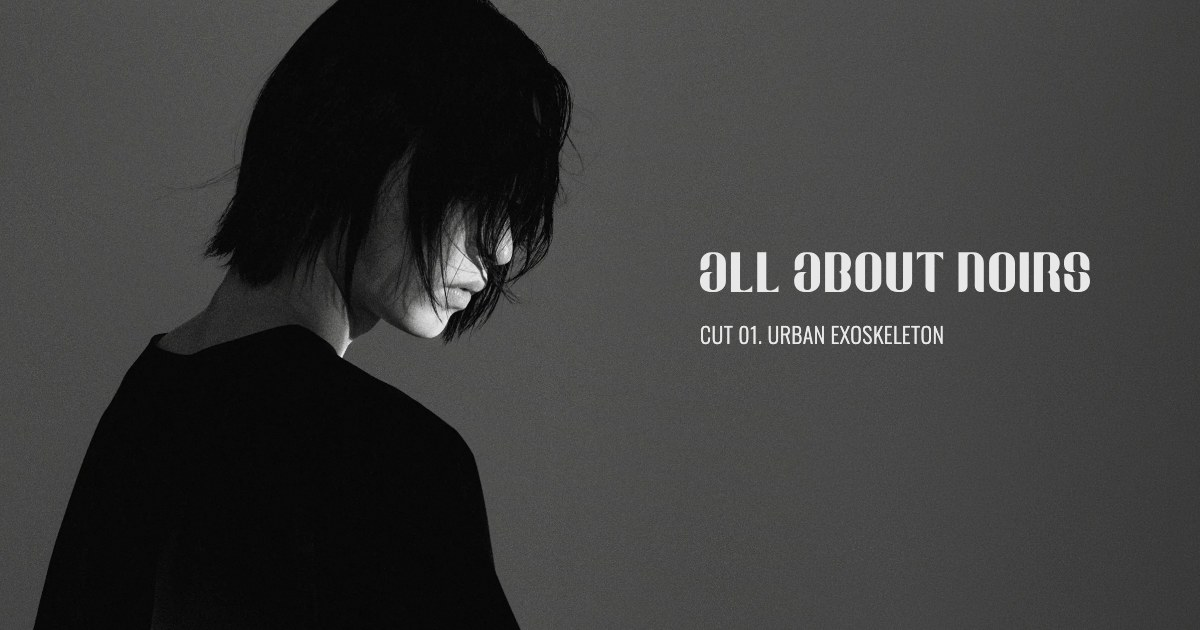
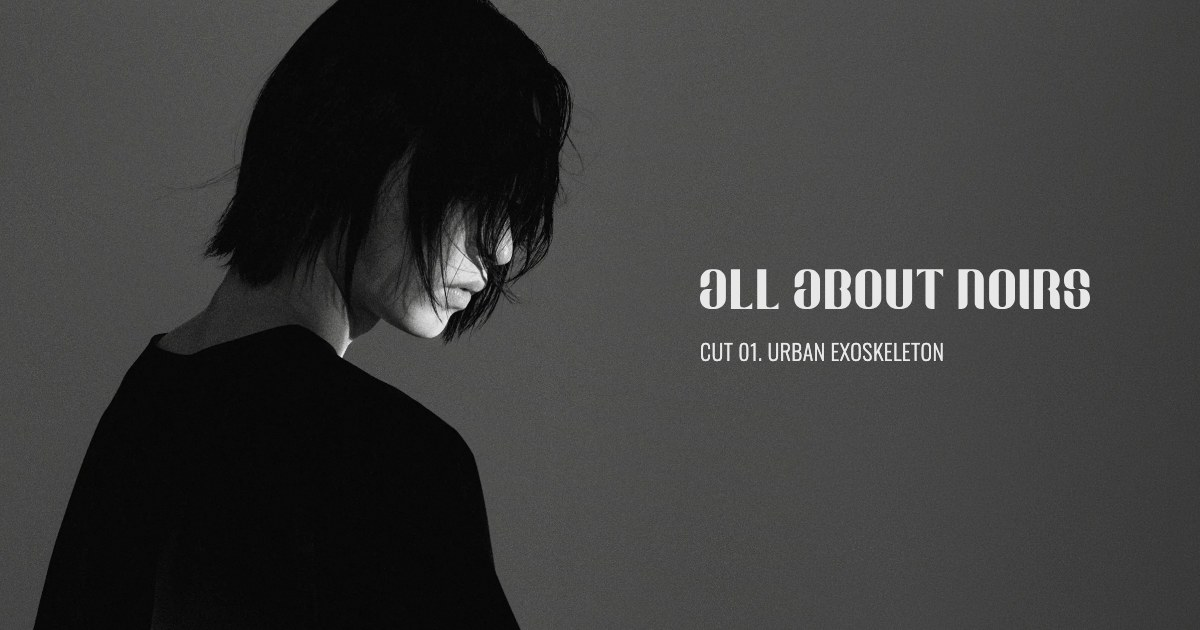
Center the link-preview copy vertically (269px above and below)

Changed region(s): [[0.5858, 0.3921, 0.925, 0.573]]

diff --git a/tools/share/og.html b/tools/share/og.html
@@ -5,7 +5,7 @@ html,body{margin:0;width:1200px;height:630px;overflow:hidden;background:#101010}
 .ph{position:absolute;inset:0;background:url(kv-02-0644@2x.webp) no-repeat;background-size:1700px auto;background-position:-210px -40px}
 .shade{position:absolute;inset:0;background:linear-gradient(90deg,rgba(0,0,0,0) 45%,rgba(0,0,0,.25) 100%)}
 .noise{position:absolute;inset:0;background:url(noise@2x.webp) 0 0/128px 128px;opacity:.35;mix-blend-mode:screen}
-.copy{position:absolute;left:700px;top:252px;color:#e8e8e8;font-family:Oswald,sans-serif;font-weight:300}
+.copy{position:absolute;left:700px;top:269px;color:#e8e8e8;font-family:Oswald,sans-serif;font-weight:300}
 .copy img{display:block;width:390px;height:auto;filter:brightness(.91)}
 .copy p{margin:26px 0 0;font-size:22px;letter-spacing:.02em}
 </style>
